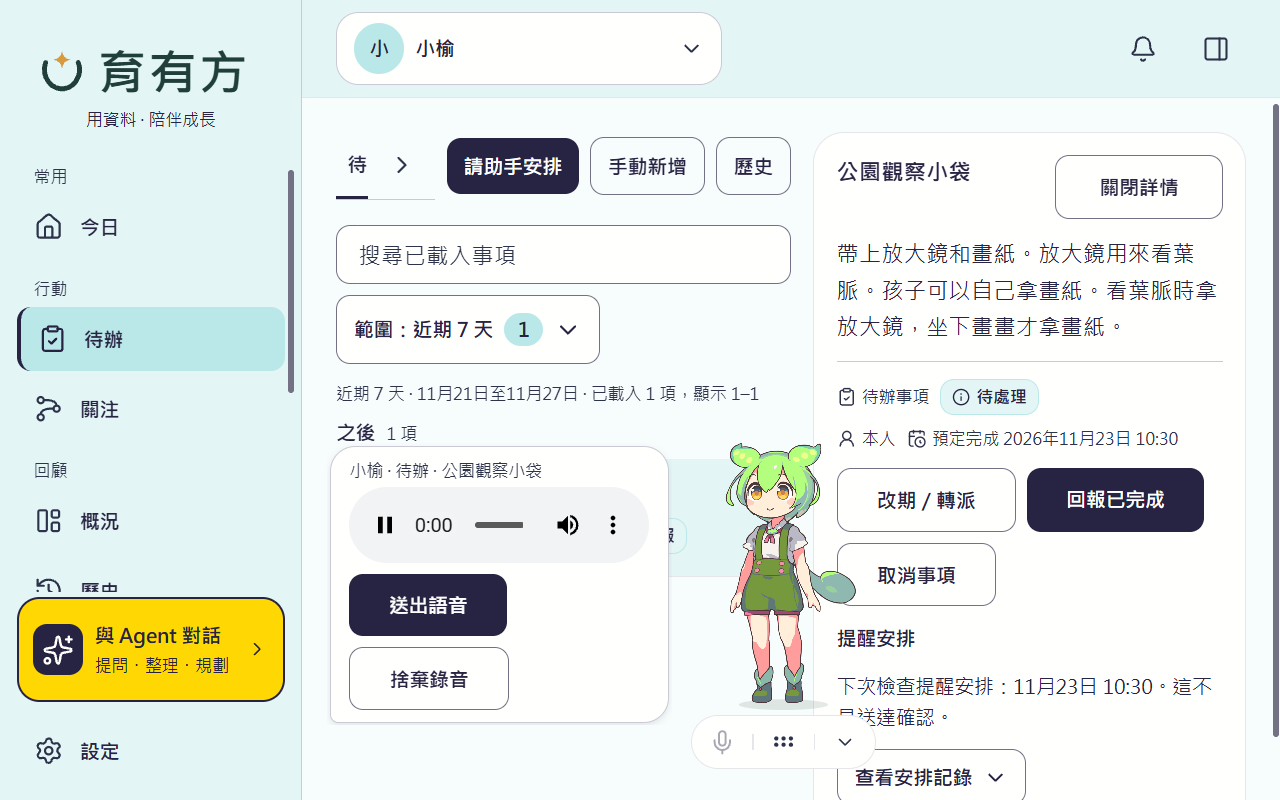
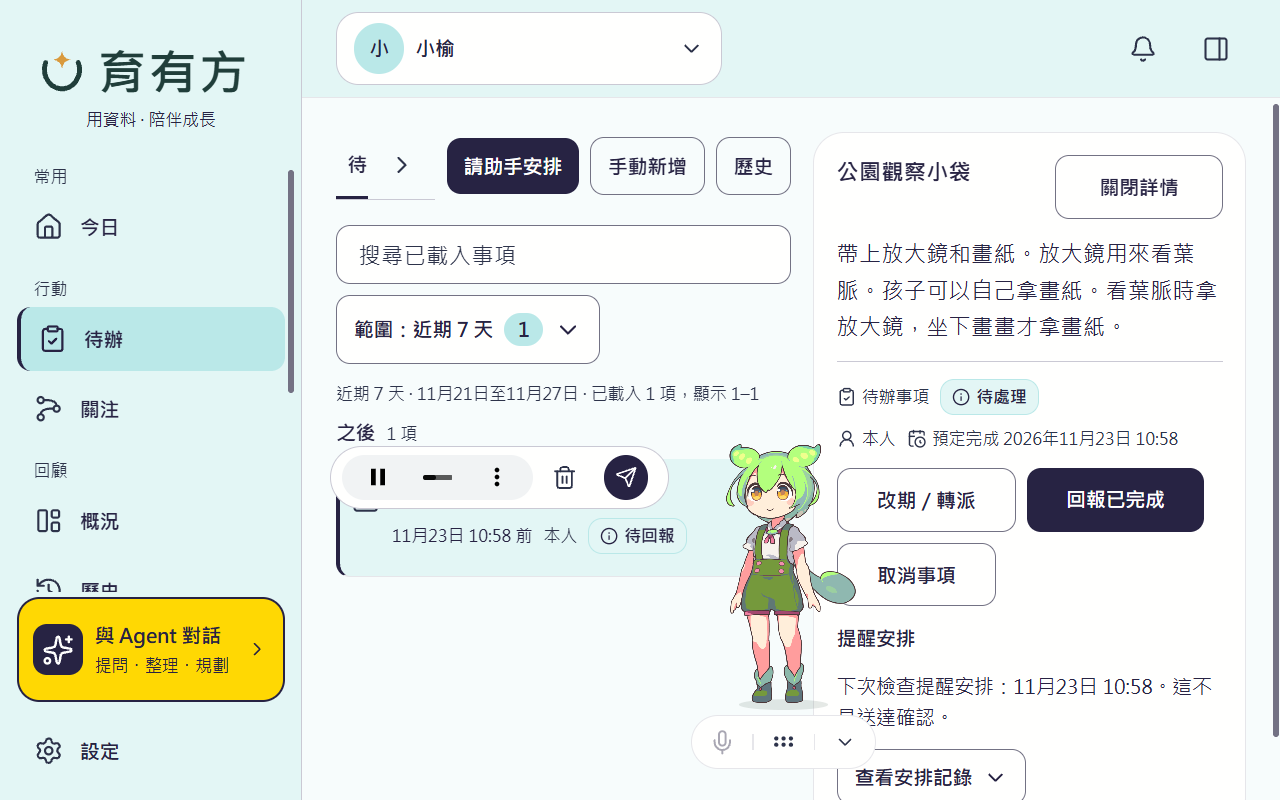
Send from the recording row and show the current outgoing turn

diff --git a/frontend/src/components/companion/SiteCompanion.tsx b/frontend/src/components/companion/SiteCompanion.tsx
@@ -2,6 +2,7 @@ import { useLayoutEffect, useMemo, useRef, useState, type RefObject } from 'reac
 import { usePathname } from 'expo-router';
 import { Platform, ScrollView, StyleSheet, View } from 'react-native';
 import { Text } from 'react-native-paper';
+import { chatDraftIsSubmitted } from '../../../../src/client/chat-controller';
 import { useChatExposure, useChatForeground } from '../../production/useChatExposure';
 import { assistantPages, sameChatPageContext, type ChatPageContext } from '../../../../src/shared/chat-page-context';
 import { useProduction } from '../../production/ProductionProvider';
@@ -114,16 +115,17 @@ function QuickConversation({ page, childId, panel, editable, canRecord, voice, e
   const activity = chatReplyActivity(chat);
   const activeReply = activity.activeReplyId;
   const targetId = activeReply ?? draft?.savedUserMessageId;
-  const question = panel && [...chat.messages].reverse().find(m => m.childId === childId && m.role === 'user' && !m.discussionOf
-    && (targetId ? m.id === targetId : beforeSend.current && !beforeSend.current.has(m.id)));
+  const outgoing = chat.outgoing?.childId === childId ? chat.outgoing : undefined;
+  const question = panel && !outgoing ? [...chat.messages].reverse().find(m => m.childId === childId && m.role === 'user' && !m.discussionOf
+    && (targetId ? m.id === targetId : beforeSend.current && !beforeSend.current.has(m.id))) : undefined;
   const reply = question && [...chat.messages].reverse().find(m => m.childId === childId && m.role === 'model' && m.inReplyTo === question.id);
   const reason = reply && failedChatReply(reply.text, reply.agentRunId ? agentRuns[reply.agentRunId]?.stopReasonLabel : undefined);
-  const submitted = !!draft?.savedUserMessageId && (phase === 'replying' || phase === 'reply_failed');
+  const submitted = chatDraftIsSubmitted(chat, draft);
   const upload = [voiceUpload, fileUpload, photoUpload].find(u => u.busy || u.unknown || u.notice);
   const reminder = panel?.reminderId ? chat.messages.find(m => m.id === panel.reminderId && m.childId === childId && m.proactive) : undefined;
   const [exposed, setExposed] = useState(false);
   const foreground = useChatForeground();
-  const exposedIds = useMemo(() => exposed && reminder && !question && !panel?.voice ? [reminder.id] : [], [exposed, reminder?.id, question?.id, panel?.voice]);
+  const exposedIds = useMemo(() => exposed && reminder && !question && !outgoing && !panel?.voice ? [reminder.id] : [], [exposed, reminder?.id, question?.id, outgoing, panel?.voice]);
   useChatExposure(foreground && exposed, exposedIds);
   const validPage = assistantPages.find(p => p === page);
   const pageContext: ChatPageContext | undefined = validPage ? { page: validPage, ...(item ? { item } : {}) } : undefined;
@@ -135,7 +137,7 @@ function QuickConversation({ page, childId, panel, editable, canRecord, voice, e
     beforeSend.current = new Set(chat.messages.map(message => message.id));
     try { await sendChat({ pageContext }); } finally { sending.current = false; }
   }
-  const composerText = submitted ? draft.nextText ?? '' : chatDraft;
+  const composerText = submitted ? draft?.nextText ?? '' : chatDraft;
   const queued = !!activeReply && chat.queuedText?.afterMessageId === activeReply;
   const canQueue = !!pageContext && chatWritesAllowed && chat.online && !chat.cancelling && !chat.cancelAcceptedFor
     && chat.busy === 'reply' && phase === 'replying' && !!activeReply && draft?.savedUserMessageId === activeReply
@@ -153,7 +155,7 @@ function QuickConversation({ page, childId, panel, editable, canRecord, voice, e
     }
   }, [recording, currentItem, validPage, pageContext, voice, endVoice]);
   const canSend = editable && !!validPage && (!!chatDraft.trim() || !!agentAttachments.length) && chatDraft.length <= 10_000;
-  const canType = chatWritesAllowed && (submitted || phase === 'draft' && chat.online && !!chat.loadedAt && chat.busy !== 'save' && !upload?.unknown);
+  const canType = !!outgoing || chatWritesAllowed && (submitted || phase === 'draft' && chat.online && !!chat.loadedAt && chat.busy !== 'save' && !upload?.unknown);
   const input = useRef<ChatComposerInputHandle>(null), focusedPanel = useRef<Panel | null>(null);
   useLayoutEffect(() => {
     if (!input.current?.focus || !panel || !canType || recording || panel.focus === false || panel === focusedPanel.current) return;
@@ -165,13 +167,14 @@ function QuickConversation({ page, childId, panel, editable, canRecord, voice, e
     else if (canSend) void send();
   };
   const speech = reason?.body || (!reason && reply?.text);
-  const showBubble = !!(reminder || question || turnStatus || notice || needsRecovery);
+  const showBubble = !!(outgoing || reminder || question || turnStatus || notice || needsRecovery);
   const itemLabel = item && (({ task: '待辦', record: '記錄', document: '文件' })[item.kind] + ' · ' + ((recording ? panel?.voice?.label : selected?.label) || '目前選取的項目'));
   return <>
     {panel && !recording && showBubble && <View testID="companion-turn" style={styles.bubble}>
-      {reminder && !question && <View testID="companion-reminder" onLayout={() => setExposed(true)}>
+      {reminder && !question && !outgoing && <View testID="companion-reminder" onLayout={() => setExposed(true)}>
         <Text style={styles.context}>助手提醒</Text><Text numberOfLines={3} style={styles.body}>{reminder.text}</Text></View>}
-      {question && <Text numberOfLines={1} style={styles.context}>{question.text || (question.voice ? '你的語音訊息' : '你的附件')}</Text>}
+      {outgoing ? <Text testID="companion-outgoing" numberOfLines={2} style={styles.context}>{[outgoing.attachmentLabel, outgoing.text].filter(Boolean).join(' · ')}</Text>
+        : question && !reply && <Text numberOfLines={1} style={styles.context}>{question.text || (question.voice ? '你的語音訊息' : '你的附件')}</Text>}
       {!!reason && <Text accessibilityRole="alert" numberOfLines={2} style={styles.warning}>{reason.reason}</Text>}
       {!!speech && <Text numberOfLines={4} selectable style={styles.body}>{speech}</Text>}
       {turnStatus && turnStatus.text !== notice && <ChatTurnStatusLine status={turnStatus} />}
@@ -194,9 +197,8 @@ function QuickConversation({ page, childId, panel, editable, canRecord, voice, e
             icon={queued ? 'close' : 'arrow-up'} iconOnly />}
       </View>
     </View>}
-    {(canRecord || recording) && <View style={recording ? styles.bubble : undefined} pointerEvents={recording ? 'auto' : 'none'}>
-      {recording && (childName || itemLabel) && <Text numberOfLines={2} style={styles.context}>{[childName, itemLabel].filter(Boolean).join(' · ')}</Text>}
-      {recording && !!chatDraft.trim() && <Text numberOfLines={2} style={styles.body}>{chatDraft}</Text>}
+    {(canRecord || recording) && <View style={recording ? styles.voice : undefined} pointerEvents={recording ? 'auto' : 'none'}>
+      {recording && !!chatDraft.trim() && <Text numberOfLines={1} style={styles.context}>{chatDraft}</Text>}
       <VoiceCapture ref={voice} visible={recording} sendRecording confirmDisabled={!canRecord} onDismiss={endVoice} onPick={a => void send(a)} />
     </View>}
   </>;
@@ -207,6 +209,7 @@ const styles = StyleSheet.create({
     paddingHorizontal: 13, paddingVertical: 8, gap: 3, shadowColor: colors.ink, shadowOffset: { width: 0, height: 2 }, shadowRadius: 5, shadowOpacity: .1, elevation: 2 },
   entry: { backgroundColor: colors.white, borderColor: colors.sage, borderWidth: 1, borderRadius: 20, paddingHorizontal: 7,
     shadowColor: colors.ink, shadowOffset: { width: 0, height: 2 }, shadowRadius: 5, shadowOpacity: .12, elevation: 2 },
+  voice: { backgroundColor: colors.white, borderColor: colors.line, borderWidth: 1, borderRadius: 24, paddingHorizontal: 8 },
   row: { flexDirection: 'row', alignItems: 'center' }, input: { flex: 1, minWidth: 0 },
   body: { color: colors.ink, fontSize: 15, lineHeight: 22 }, warning: { color: colors.warningInk, fontSize: 13, lineHeight: 19 },
   context: { color: colors.muted, fontSize: 12, lineHeight: 18 },

diff --git a/frontend/src/components/agent/CompanionVoiceControls.tsx b/frontend/src/components/agent/CompanionVoiceControls.tsx
@@ -1,0 +1,54 @@
+import { useEffect, useRef, useState } from 'react';
+import { Pressable, StyleSheet, View } from 'react-native';
+import { Text } from 'react-native-paper';
+import Headphones from 'lucide-react-native/icons/headphones';
+import { colors } from '../../theme';
+import { AppIcon } from '../AppIcon';
+import { LocalAudioPreview } from './LocalAudioPreview';
+import type { VoiceCaptureState } from './local-voice-capture';
+import { VoiceRecordingTimer } from './VoiceRecordingTimer';
+
+const fromStart = { seconds: 0, request: 1 };
+
+export function CompanionVoiceControls({ state, uri, error, available = true, confirmDisabled, stop, start, cancel, confirm }: {
+  state: VoiceCaptureState; uri?: string; error?: string; available?: boolean; confirmDisabled: boolean;
+  stop(): void; start(): void; cancel(): void; confirm(): void;
+}) {
+  const sendOnStop = useRef(false), [previewRequested, setPreviewRequested] = useState(false);
+  const ready = state === 'ready' && !!uri, live = state === 'recording';
+  useEffect(() => {
+    if (state === 'idle' || state === 'error') sendOnStop.current = false;
+    if (!ready || !sendOnStop.current) return;
+    sendOnStop.current = false;
+    if (!confirmDisabled) confirm();
+  }, [ready, state, confirmDisabled, confirm]);
+  const canSend = (live || ready) && !confirmDisabled;
+  function send() {
+    if (!canSend || sendOnStop.current) return;
+    if (ready) { confirm(); return; }
+    sendOnStop.current = true; stop();
+  }
+  return <View testID="voice-capture">
+    {!!error && <Text accessibilityRole="alert" style={s.error}>{error}</Text>}
+    <View style={s.row}>
+      <View style={s.leading}>{live ? <VoiceRecordingTimer compact /> : ready && uri ?
+        <LocalAudioPreview uri={uri} compact seek={previewRequested ? fromStart : undefined} /> :
+        <Text accessibilityLiveRegion="polite" style={s.caption}>{state === 'permission' ? '等候咪高峰權限…' : state === 'stopping' ? '正在處理…' : available ? '尚未錄音' : '咪高峰未能使用'}</Text>}</View>
+      <Pressable accessibilityRole="button" accessibilityLabel={ready ? '捨棄錄音' : '取消錄音'} style={s.action}
+        onPress={() => { sendOnStop.current = false; cancel(); }}><AppIcon name="delete-outline" size={18} /></Pressable>
+      {live && <Pressable accessibilityRole="button" accessibilityLabel="停止並試聽" style={s.action}
+        onPress={() => { if (!sendOnStop.current) { setPreviewRequested(true); stop(); } }}><Headphones size={19} color={colors.ink} /></Pressable>}
+      {available && (state === 'idle' || state === 'error') && <Pressable accessibilityRole="button" accessibilityLabel="重新錄音"
+        style={s.action} onPress={() => { setPreviewRequested(false); start(); }}><AppIcon name="microphone-outline" size={19} /></Pressable>}
+      <Pressable accessibilityRole="button" accessibilityLabel="送出語音" disabled={!canSend} accessibilityState={{ disabled: !canSend }}
+        onPress={send} style={[s.action, !canSend && s.disabled]}><View style={s.send}><AppIcon name="send" size={16} color={colors.white} /></View></Pressable>
+    </View>
+  </View>;
+}
+
+const s = StyleSheet.create({
+  row: { flexDirection: 'row', alignItems: 'center' }, leading: { flex: 1, minWidth: 0 },
+  action: { width: 44, height: 44, alignItems: 'center', justifyContent: 'center' },
+  send: { width: 32, height: 32, borderRadius: 16, backgroundColor: colors.ink, alignItems: 'center', justifyContent: 'center' },
+  disabled: { opacity: .35 }, caption: { color: colors.muted, fontSize: 12 }, error: { color: colors.warningInk, fontSize: 13 },
+});

diff --git a/frontend/src/components/agent/VoiceCapture.web.tsx b/frontend/src/components/agent/VoiceCapture.web.tsx
@@ -7,6 +7,7 @@ import { AppButton } from "../ui";
 import { LocalAudioPreview } from "./LocalAudioPreview";
 import { createLocalVoiceCapture, type VoiceCaptureState } from "./local-voice-capture";
 import { AssistantAttachmentPicker } from "./AssistantAttachmentPicker";
+import { CompanionVoiceControls } from "./CompanionVoiceControls";
 import { VoiceRecordingTimer, type VoiceCaptureHandle } from "./VoiceRecordingTimer";
 
 export function VoiceCapture({ onPick, visible, onDismiss, ref, sendRecording = false, confirmDisabled = false }: { onPick(attachment: AssistantAttachment): void; visible: boolean; onDismiss(): void; sendRecording?: boolean; confirmDisabled?: boolean; ref?: Ref<VoiceCaptureHandle> }) {
@@ -48,6 +49,8 @@ export function VoiceCapture({ onPick, visible, onDismiss, ref, sendRecording = 
     discard(); onPick(attachment);
   }
   if (!visible) return null;
+  if (sendRecording) return <CompanionVoiceControls state={state} uri={recording?.localUri} error={error} available={available} confirmDisabled={confirmDisabled}
+    start={start} stop={() => controller.stop()} cancel={() => discard()} confirm={() => { if (current.current) pick(current.current); }} />;
   return <View testID="voice-capture" style={styles.stack}>
     {state === "permission" || state === "stopping" ? <Text accessibilityLiveRegion="polite" style={styles.body}>{state === "permission" ? "等候咪高峰權限…" : "正在準備錄音…"}</Text> : null}
     {state === "recording" ? <VoiceRecordingTimer /> : null}
@@ -55,10 +58,10 @@ export function VoiceCapture({ onPick, visible, onDismiss, ref, sendRecording = 
     {recording?.localUri ? <LocalAudioPreview uri={recording.localUri} /> : null}
     {error ? <Text accessibilityRole="alert" style={styles.error}>{error}</Text> : null}
     <View style={styles.actions}>{state === "recording" ? <AppButton label="停止並試聽" onPress={() => controller.stop()} /> :
-      !recording ? (!sendRecording || !busy) && <AppButton label="開始錄音" disabled={!available || busy} onPress={start} /> :
-      <AppButton label={sendRecording ? "送出語音" : "使用錄音"} disabled={confirmDisabled} onPress={() => { const attachment = current.current; if (attachment) pick(attachment); }} />}
+      !recording ? <AppButton label="開始錄音" disabled={!available || busy} onPress={start} /> :
+      <AppButton label="使用錄音" onPress={() => { const attachment = current.current; if (attachment) pick(attachment); }} />}
       <AppButton label={recording ? "捨棄錄音" : "取消錄音"} variant="quiet" onPress={() => discard()} />
-    </View>{!sendRecording && !recording && state === "idle" ? <AssistantAttachmentPicker kind="voice" disabled={busy} onPick={pick} onError={setError} /> : null}
+    </View>{!recording && state === "idle" ? <AssistantAttachmentPicker kind="voice" disabled={busy} onPick={pick} onError={setError} /> : null}
   </View>;
 }
 const styles = StyleSheet.create({ stack: { gap: spacing.sm }, actions: { flexDirection: "row", flexWrap: "wrap", gap: spacing.sm },

diff --git a/frontend/src/components/agent/VoiceCapture.tsx b/frontend/src/components/agent/VoiceCapture.tsx
@@ -10,6 +10,7 @@ import { AppButton } from "../ui";
 import { LocalAudioPreview } from "./LocalAudioPreview";
 import { copyNativeVoice } from "./native-voice-file";
 import { AssistantAttachmentPicker } from "./AssistantAttachmentPicker";
+import { CompanionVoiceControls } from "./CompanionVoiceControls";
 import { VoiceRecordingTimer, type VoiceCaptureHandle } from "./VoiceRecordingTimer";
 
 const options = { ...RecordingPresets.HIGH_QUALITY, numberOfChannels: 1, bitRate: 64_000,
@@ -92,16 +93,19 @@ export function VoiceCapture({ onPick, visible, onDismiss, ref, sendRecording = 
     discard(true, attachment); onPick(attachment);
   }
   if (!visible) return null;
+  if (sendRecording) return <CompanionVoiceControls state={state} uri={recording?.localUri} error={error} confirmDisabled={confirmDisabled}
+    start={() => void start()} stop={() => void finish(true, generation.current)} cancel={() => discard()}
+    confirm={() => { if (current.current) pick(current.current); }} />;
   return <View testID="voice-capture" style={styles.stack}>
     {state === "permission" || state === "stopping" ? <Text accessibilityLiveRegion="polite" style={styles.body}>{state === "permission" ? "等候咪高峰權限…" : "正在準備錄音…"}</Text> : null}
     {state === "recording" ? <VoiceRecordingTimer /> : null}
     {recording?.localUri ? <LocalAudioPreview uri={recording.localUri} /> : null}
     {error ? <Text accessibilityRole="alert" style={styles.error}>{error}</Text> : null}
     <View style={styles.actions}>{state === "recording" ? <AppButton label="停止並試聽" onPress={() => { void finish(true, generation.current); }} /> :
-      recording ? <AppButton label={sendRecording ? "送出語音" : "使用錄音"} disabled={confirmDisabled || state !== "ready"} onPress={() => { const item = current.current; if (item) pick(item); }} /> :
-      (!sendRecording || state === "idle") && <AppButton label="開始錄音" disabled={state !== "idle"} onPress={() => { void start(); }} />}
+      recording ? <AppButton label="使用錄音" disabled={state !== "ready"} onPress={() => { const item = current.current; if (item) pick(item); }} /> :
+      <AppButton label="開始錄音" disabled={state !== "idle"} onPress={() => { void start(); }} />}
       <AppButton label={recording ? "捨棄錄音" : "取消錄音"} variant="quiet" onPress={() => discard()} />
-    </View>{!sendRecording && !recording && state === "idle" ? <AssistantAttachmentPicker kind="voice" disabled={false} onPick={pick} onError={setError} /> : null}
+    </View>{!recording && state === "idle" ? <AssistantAttachmentPicker kind="voice" disabled={false} onPick={pick} onError={setError} /> : null}
   </View>;
 }
 const styles = StyleSheet.create({ stack: { gap: spacing.sm }, actions: { flexDirection: "row", flexWrap: "wrap", gap: spacing.sm },

diff --git a/frontend/src/components/agent/LocalAudioPreview.tsx b/frontend/src/components/agent/LocalAudioPreview.tsx
@@ -1,10 +1,13 @@
 import { useEffect, useRef, useState } from "react";
-import { AppState, View } from "react-native";
+import { AppState, Pressable, View } from "react-native";
+import Play from "lucide-react-native/icons/play";
+import Pause from "lucide-react-native/icons/pause";
+import { colors } from "../../theme";
 import { Text } from "react-native-paper";
 import { setAudioModeAsync, useAudioPlayer, useAudioPlayerStatus } from "expo-audio";
 import { AppButton } from "../ui";
 
-export function LocalAudioPreview({ uri, saved=false, seek }: { uri: string; saved?:boolean; seek?:{seconds:number;request:number} }) {
+export function LocalAudioPreview({ uri, saved=false, seek, compact=false }: { uri: string; saved?:boolean; compact?:boolean; seek?:{seconds:number;request:number} }) {
   const player = useAudioPlayer({ uri }), status = useAudioPlayerStatus(player);
   const mounted = useRef(true);
   const [error, setError] = useState<string | null>(null);
@@ -31,6 +34,11 @@ export function LocalAudioPreview({ uri, saved=false, seek }: { uri: string; sav
       else { if (!await preparePlayback()) return; if (status.didJustFinish || status.currentTime >= status.duration) await player.seekTo(0); if (mounted.current && AppState.currentState === "active") player.play(); }
     } catch { setError("暫時未能播放這段音訊，原檔保留。"); }
   }
+  if (compact) return <View><Pressable accessibilityRole="button" accessibilityLabel={status.playing ? "暫停播放" : "播放試聽"}
+    disabled={!status.isLoaded} onPress={() => void toggle()} style={{ minHeight: 44, flexDirection: "row", alignItems: "center", gap: 6 }}>
+    {status.playing ? <Pause size={17} color={colors.ink} /> : <Play size={17} color={colors.ink} />}
+    <Text>{Math.floor(status.currentTime)} / {Math.ceil(status.duration)} 秒</Text></Pressable>
+    {error && <Text accessibilityRole="alert">{error}</Text>}</View>;
   return <View><AppButton label={status.playing ? "暫停播放" : saved ? "播放原錄音" : "播放試聽"} disabled={!status.isLoaded} onPress={() => { void toggle(); }} />
     <Text>{Math.floor(status.currentTime)} / {Math.ceil(status.duration)} 秒</Text>
     {error ? <Text accessibilityRole="alert">{error}</Text> : null}</View>;

diff --git a/frontend/src/components/agent/LocalAudioPreview.web.tsx b/frontend/src/components/agent/LocalAudioPreview.web.tsx
@@ -1,10 +1,11 @@
 import {useEffect,useRef} from 'react';
-export function LocalAudioPreview({uri,saved=false,seek}:{uri:string;saved?:boolean;seek?:{seconds:number;request:number}}){
+export function LocalAudioPreview({uri,saved=false,seek,compact=false}:{uri:string;saved?:boolean;compact?:boolean;seek?:{seconds:number;request:number}}){
   const audio=useRef<HTMLAudioElement>(null);
   useEffect(()=>{if(!seek||!audio.current)return;const element=audio.current;
     const position=()=>{element.currentTime=seek.seconds;void element.play().catch(()=>{});};
     if(element.readyState)position();else element.addEventListener('loadedmetadata',position,{once:true});
     return()=>element.removeEventListener('loadedmetadata',position);
   },[uri,seek]);
-  return <audio ref={audio} src={uri} controls preload="metadata" aria-label={saved?'已保存原錄音':'本地音訊預覽，未上傳'} style={{width:'100%',maxWidth:'100%'}}/>;
+  return <audio ref={audio} src={uri} controls preload="metadata" aria-label={saved?'已保存原錄音':'本地音訊預覽，未上傳'}
+    style={{width:'100%',maxWidth:'100%',...(compact && {height:32})}}/>;
 }

diff --git a/frontend/src/components/agent/VoiceRecordingTimer.tsx b/frontend/src/components/agent/VoiceRecordingTimer.tsx
@@ -5,7 +5,7 @@ import { chineseFont, colors } from "../../theme";
 
 export type VoiceCaptureHandle = { start(): void; cancel(): void };
 
-export function VoiceRecordingTimer() {
+export function VoiceRecordingTimer({ compact = false }: { compact?: boolean }) {
   const started = useRef(Date.now());
   const [seconds, setSeconds] = useState(0);
   useEffect(() => {
@@ -15,7 +15,7 @@ export function VoiceRecordingTimer() {
     return () => clearTimeout(timer);
   }, []);
   const label = `${Math.floor(seconds / 60).toString().padStart(2, "0")}:${(seconds % 60).toString().padStart(2, "0")}`;
-  return <View style={styles.row}><View style={styles.dot} /><Text style={styles.timer}>錄音中</Text>
+  return <View style={styles.row}><View style={styles.dot} />{!compact && <Text style={styles.timer}>錄音中</Text>}
     <Text testID="voice-recording-time" accessibilityLabel={`錄音時間 ${label}`} style={styles.timer}>{label}</Text></View>;
 }
 const styles = StyleSheet.create({ row: { flexDirection: "row", alignItems: "center", gap: 7 },

diff --git a/frontend/PLAN.md b/frontend/PLAN.md
@@ -4,7 +4,7 @@
 
 <a id="active"></a>
 
-**角色旁輸入及語音（2026-11-21）。** 工作頁點角色展開單一輸入框；本輪回答留在身旁，開啟助手頁可讀回同一則全文。咪高峰一次點按即開始，停止後可試聽、捨棄或送出。桌面和窄屏觸控均以本地登入測試孩子及已保存待辦驗收；每端各保存一則文字和一段語音。取消及試聽期間零上傳。長文來自本地測試資料，錄音經 Edge 模擬咪高峰、正式上傳及保存流程。原生裝置待驗，正式發布由主聊天整合。[桌面氣泡](verification/companion-speech-2026-11-21/desktop-reply.png) · [觸控試聽](verification/companion-speech-2026-11-21/touch-preview.png) · [桌面紀錄](verification/companion-speech-2026-11-21/desktop.json) · [窄屏紀錄](verification/companion-speech-2026-11-21/touch.json)
+**角色旁輸入及語音（2026-11-21）。** 工作頁點角色展開單一輸入框；本輪回答留在身旁，開啟助手頁可讀回同一則全文。咪高峰一次點按即開始，錄製中可直接送出，亦可按耳機先試聽或捨棄。桌面和窄屏觸控均以本地登入測試孩子及已保存待辦驗收；每端各保存一則文字和一段語音。兩端實測暫緩原保存期間即時回顯、清空輸入並保留下一題草稿；回答出現後移除問題副本。取消及試聽期間零上傳，錄製中直接送出只上傳一次。長文來自本地測試資料，錄音經 Edge 模擬咪高峰、正式上傳及保存流程。原生裝置待驗，正式發布由主聊天整合。[桌面氣泡](verification/companion-speech-2026-11-21/desktop-reply.png) · [觸控試聽](verification/companion-speech-2026-11-21/touch-preview.png) · [桌面紀錄](verification/companion-speech-2026-11-21/desktop.json) · [窄屏紀錄](verification/companion-speech-2026-11-21/touch.json)
 
 **小助手及完整對話的回覆狀態（2026-11-21）。** 兩個入口共用一行狀態。普通提問顯示「正在回覆…」，收到同一題的具體進度才換字，已保存的失敗原因留在該則回答。單一孩子省去副題，多孩或從共享空間選定私人對話時顯示孩子稱呼。本機 Edge 從待辦小窗送出「你是誰」，桌面和窄屏查看同一原題，重開後查回失敗結果。正式發布交主聊天。[桌面小窗](verification/chat-turn-status-2026-11-21/desktop-companion.png) · [窄屏小窗](verification/chat-turn-status-2026-11-21/compact-companion.png) · [驗收紀錄](verification/chat-turn-status-2026-11-21/receipt.json)
 
